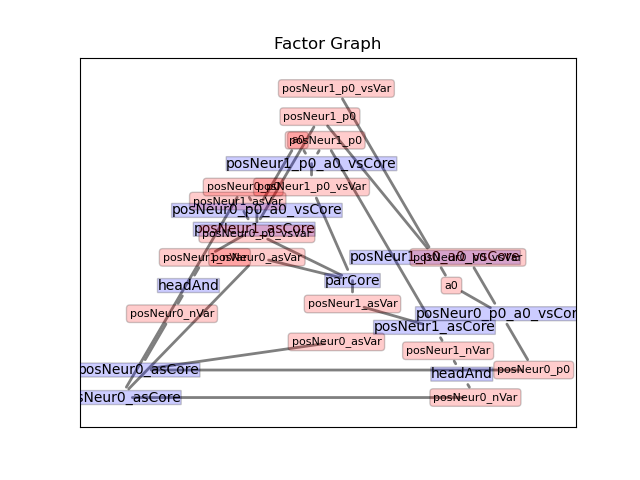
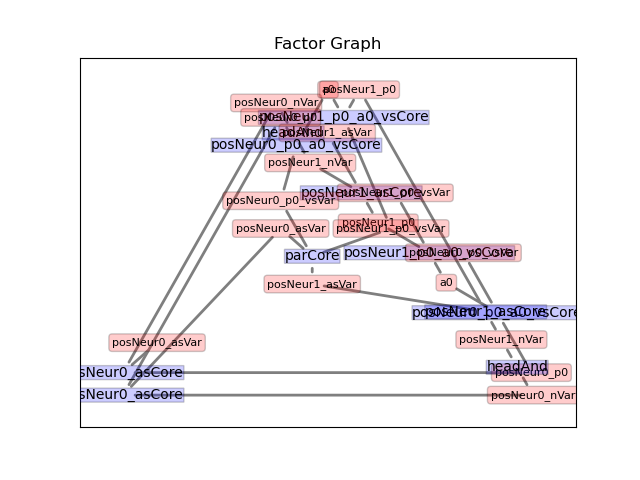
Added slicing option in contraction to support documentation

Changed region(s): [[0.125, 0.1562, 0.9062, 0.875]]

diff --git a/tnreason/engine/contraction_handling.py b/tnreason/engine/contraction_handling.py
@@ -1,3 +1,5 @@
+from tnreason.engine import auxiliary_cores as ac
+
 import numpy as np
 
 defaultContractionMethod = "NumpyEinsum"
@@ -29,7 +31,7 @@ def sum_contract(weightedCoreDicts, backCores={}, openColors=[], dimensionDict={
         return contracted
 
 
-def contract(coreDict, openColors, dimensionDict={}, contractionMethod=None, coreType=None):
+def contract(coreDict, openColors, dimensionDict={}, contractionMethod=None, coreType=None, colorEvidenceDict={}):
     """
     Contractors are initialized with
         * coreDict: Dictionary of colored tensor cores specifying a network
@@ -38,6 +40,12 @@ def contract(coreDict, openColors, dimensionDict={}, contractionMethod=None, cor
         * method:
         * coreType: Required for the empty Initialization
     """
+    if colorEvidenceDict:
+        # More efficient: Do reduction on each old factor!
+        coreDict.update({color + "_evCore": ac.create_basis_core(name=color + "_evCore", shape=[dimensionDict[color]],
+                                                                 colors=[color],
+                                                                 numberTuple=(colorEvidenceDict[color]),
+                                                                 coreType=coreType) for color in colorEvidenceDict})
     if contractionMethod is None:
         contractionMethod = defaultContractionMethod
 

diff --git a/experiments/collapsed_approximation/slice_selection_architecture.py b/experiments/collapsed_approximation/slice_selection_architecture.py
@@ -29,9 +29,18 @@ def get_selection_colors(sparsityOrder):
 
 if __name__ == "__main__":
     sparsityOrder = 2
-    varNum = 1
+    varNum = 3
     variableList = ["a" + str(i) for i in range(varNum)]
 
+    selectionTN = create_slice_selecting_tn(variableList, sparsityOrder)
+    contracted = engine.contract(selectionTN, openColors=["a0", "a1","a2"],
+                                 colorEvidenceDict={selColor : 0 for selColor in get_selection_colors(sparsityOrder)},
+                                 dimensionDict={**{"posNeur" + str(k) + encoding.suf.actSelVarSuffix : 3 for k in range(sparsityOrder)},
+                                                **{"posNeur" + str(k) + encoding.suf.varSelPosPrefix + "0" + encoding.suf.varSelVarSuffix : varNum for k in
+        range(sparsityOrder)}})
+    print(contracted.values)
+
+    exit()
     basePath = "/Users/alexgoessmann/Documents/ENEXA/tnreason/version1/experiments/collapsed_approximation/diagrams/"
     engine.draw_factor_graph(create_slice_selecting_tn(variableList, sparsityOrder),
                              storePath=basePath + "slice_selection_tn.png")

diff --git a/examples/cellular_automata/deterministic_examples.py b/examples/cellular_automata/deterministic_examples.py
@@ -6,8 +6,9 @@ from tnreason import knowledge
 Provides templates for hard-logic deterministic cellular automata
 """
 
+
 def get_ternary_inferer(ruleNumber):
-    return get_equivalence_inferer(["t"+str(ruleNumber), "m1", "b", "p1"])
+    return get_equivalence_inferer(["t" + str(ruleNumber), "m1", "b", "p1"])
 
 
 def get_equivalence_inferer(formula):
@@ -37,6 +38,10 @@ def get_one_hot_start(dim=10, pos=3):
 if __name__ == "__main__":
     basePath = "/Users/alexgoessmann/Documents/ENEXA/tnreason/version1/examples/cellular_automata/example_plots/"
 
+    for ruleNumber in [30, 90, 110, 184]:
+        st.visualize_evolution(st.compute_evolution(get_one_hot_start(201, 100), get_ternary_inferer(ruleNumber), evolNum=100),
+                               storePath=basePath + "rule" + str(ruleNumber) + ".png")
+    exit()
     st.visualize_evolution(st.compute_evolution(get_one_hot_start(201, 100), get_ternary_inferer(30), evolNum=100),
                            storePath=basePath + "rule30.png")
     st.visualize_evolution(st.compute_evolution([0 for i in range(201)], get_wave_propagation(), evolNum=100),
